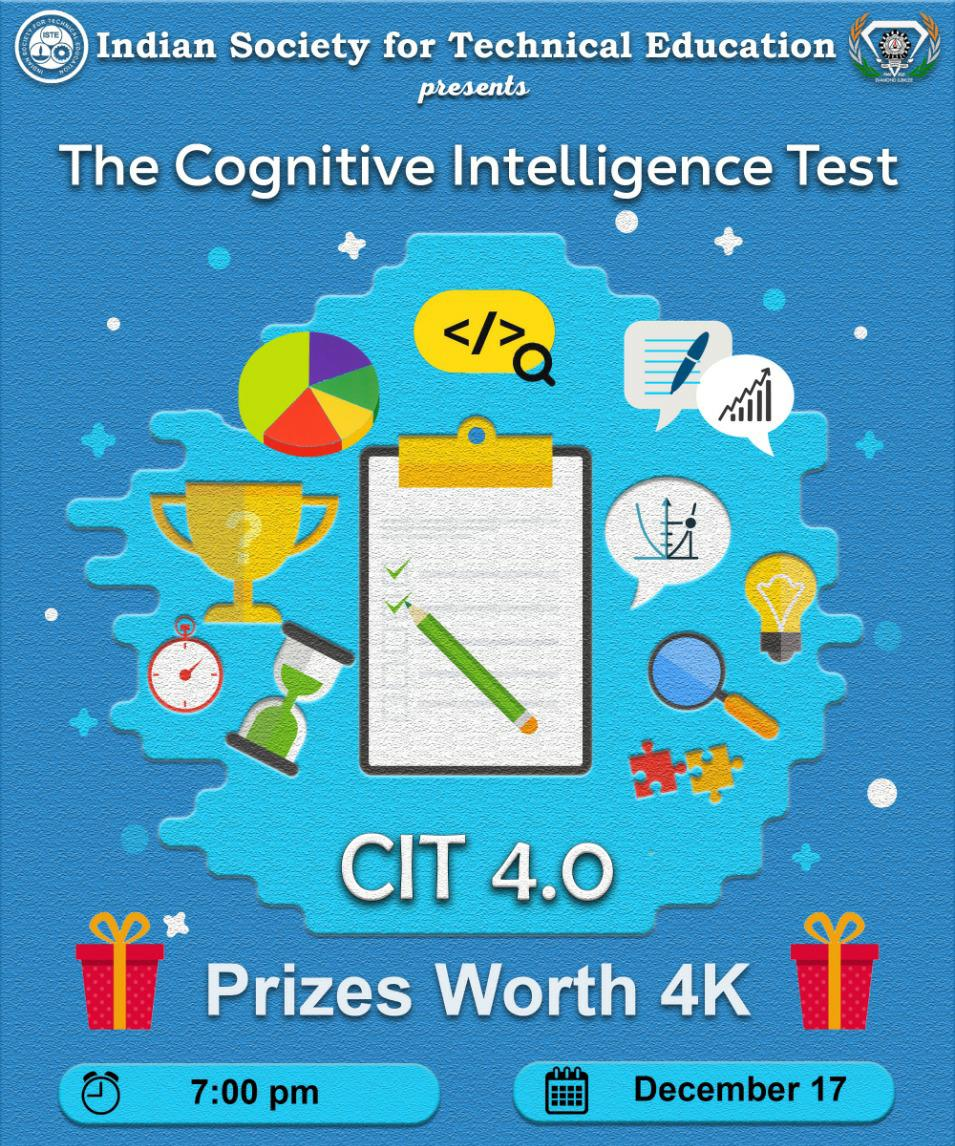
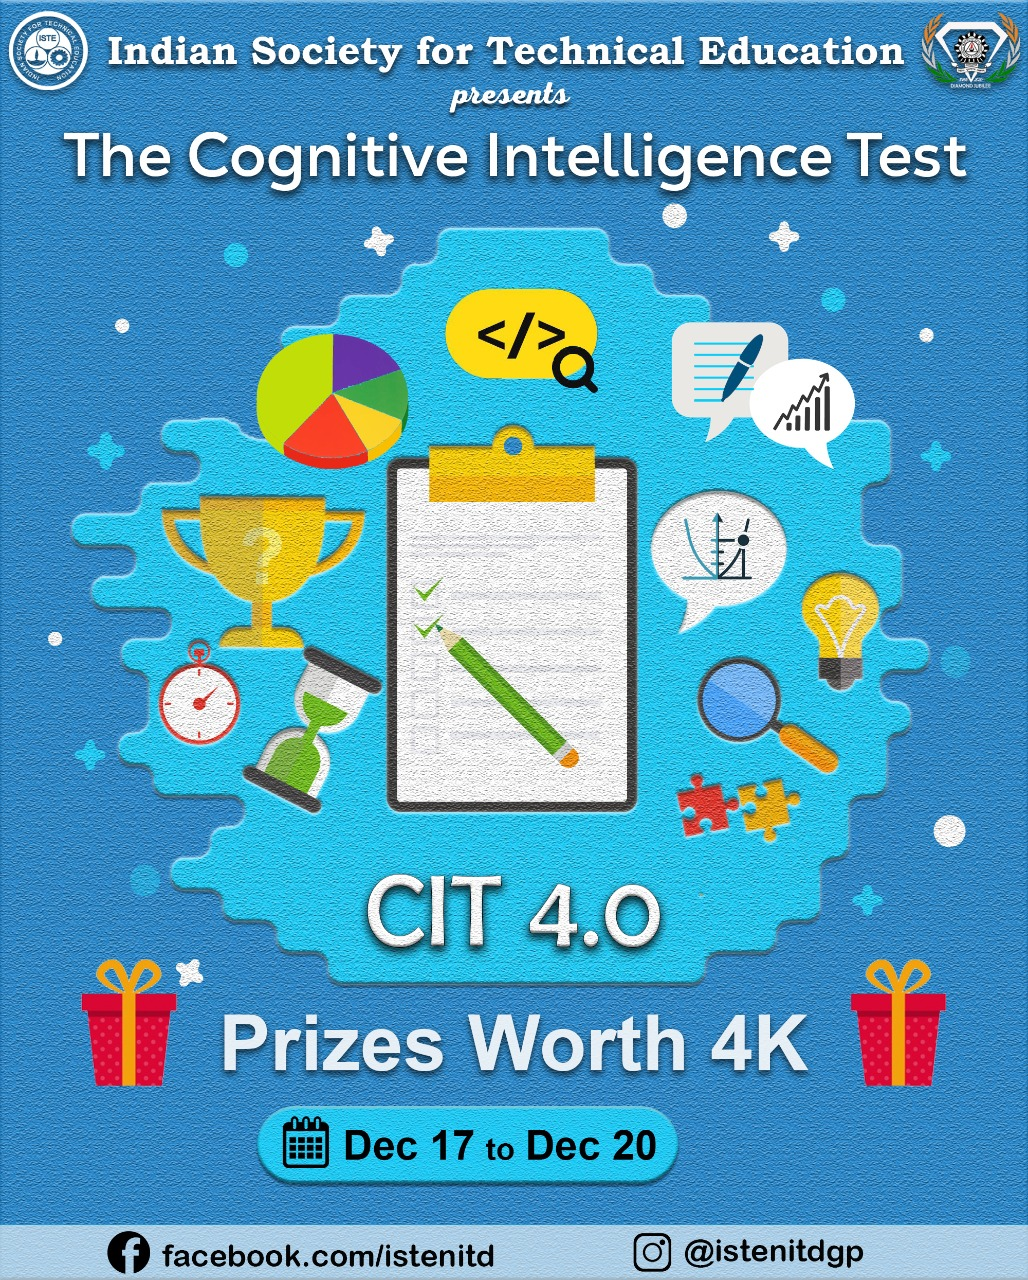
Upcomin Event CIT

diff --git a/index.html b/index.html
@@ -304,20 +304,21 @@
                                     <div class="lgx-single-event">
                                         <div class="event-info">
 
-                                            <h3 class="text-center"><b>Unveiling the details for Cognitive Intelligence Test </b></h3><br>
-                                            <h3 class="text-center"><b><u>Description:</u></b></h3><br>
-                                            <p class="text-center"> The test comprises of basic mathematical aptitude, verbal and logical reasoning and data interpretation.</p>
+                                            <h3 class="text-center"><b>Details for Cognitive Intelligence Test </b></h3><br>
+                                            <h3 class="text-center"><b><u>Description:</u></b></h3>
+                                            <p class="text-center"> The test comprises of basic mathematical aptitude, verbal, logical reasoning and data interpretation.</p>
                                             
                                             <!-- <h3 class="text-center"><b><u>Rounds:</u></b></h3><br>
                                             <p class="text-center"><b> Round 1:</b>   20 MCQs on Math, Aptitude, and Programming</p><br>
                                             <p class="text-center"><b>Round 2: </b>  5 questions on Data Structure and Algorithm.</p><br> -->
                                             
-                                            <h3 class="text-center"><b><u>Date And Time:</u></b></h3><br>
-                                            <p class="text-center"> 7:00pm on 17th December 2020</p><br>
-                                            <!-- <p class="text-center"><b>Round 2: </b> 7:30pm - 9:30pm on 5th October</p><br> -->
-                                            
-                                            <!-- <h3 class="text-center"><b><u>Link:</u></b></h3><br> -->
-                                            <p class="text-center"> <a href="https://docs.google.com/forms/d/1qI2wLsS6cZ0jY6PcyIeUkwegYgQxRb_Hn7J9xfPF3P8/edit">Click here : gform/cit4.0</a> to Register for CIT 4.0</p><br>
+                                            <h3 class="text-center"><b><u>Date And Time:</u></b></h3>
+                                            <p class="text-center"><b>Slot 1: </b> 7:30pm - 8:15pm on 17th December</p><br>
+                                            <p class="text-center"><b>Slot 2: </b> 7:30pm - 8:15pm on 18th December</p><br>
+                                            <p class="text-center"><b>Slot 3: </b> 7:30pm - 8:15pm on 19th December</p><br>
+                                            <p class="text-center"><b>Final: </b> 7:30pm - 8:15pm on 20th December</p><br>
+                                            <h3 class="text-center"><b><u>Registration Link:</u></b></h3>
+                                            <p class="text-center"> <a href="https://docs.google.com/forms/d/1qI2wLsS6cZ0jY6PcyIeUkwegYgQxRb_Hn7J9xfPF3P8/edit">Click here</a> to Register for CIT 4.0</p><br>
                                             <!-- <p class="text-center"><b>Round 2: </b> <a href="http://bit.ly/runtimeterror">http://bit.ly/runtimeterror</a></p><br> -->
                                            
                                             <p class="text-center"> Prizes upto 4k And Merit Certificates Would Be Awarded To The Top Performers. </p>
